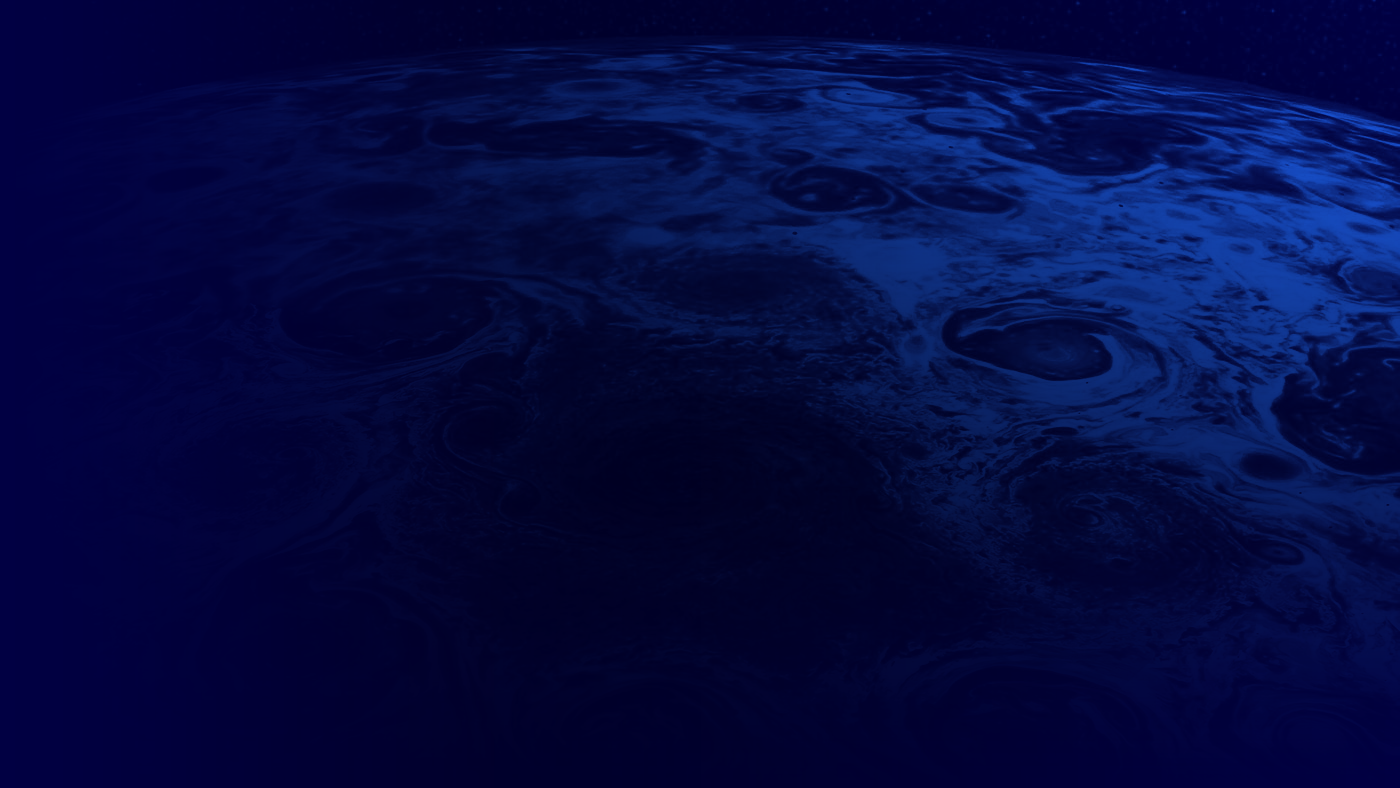
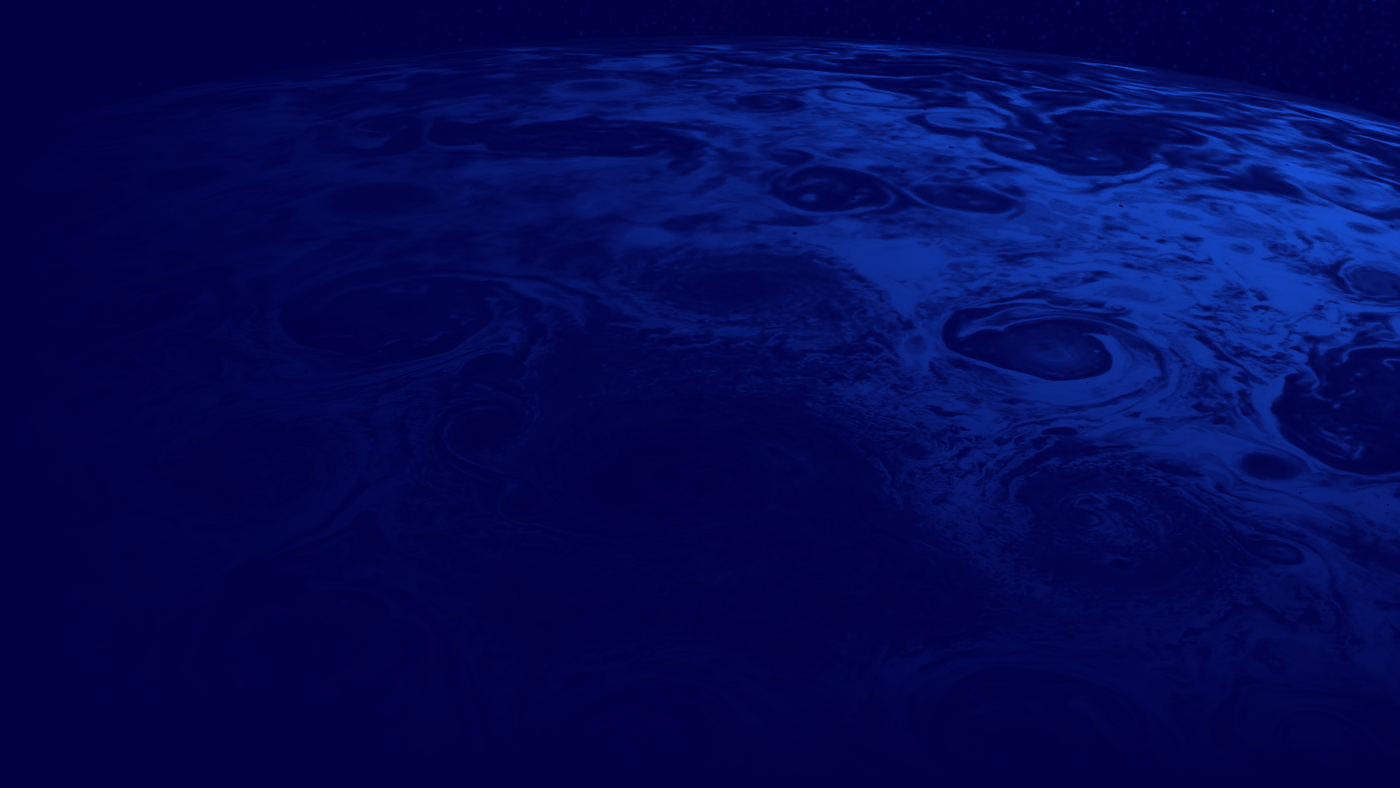
changing bg images

diff --git a/index.html b/index.html
@@ -85,10 +85,6 @@
 
 <body>
 
-  <figure class="cover">
-    <img class="background" width="2000" height="1328" src="img/17-04341_agu_meeting2017_binarykbo-4_5mb_duotone.png" alt="" />
-  </figure>
-
   <div class="wrapper">
 
     <header class="header">
@@ -264,13 +260,9 @@
                   “Juno’s measurement of Jupiter’s gravity field indicates a north-south asymmetry, similar to the asymmetry observed in its zones and belts,” said Luciano Iess, Juno co-investigator from Sapienza University of Rome, and lead author on a Nature paper on Jupiter’s gravity field.
                 </p>
               </div>
-
-
-
-
             </div> <!-- end article one -->
 
-            <div class="section">
+            <div class="section" data-bg-path="img/jovian-twilight-zone.png">
               <div id="navitem--sub--36" class="satellite"><p class="date">March 2, 2018</p></div>
 
               <h1 class="sun headline">Jovian ‘Twilight Zone’</h1>
@@ -300,7 +292,7 @@
               </div>
             </div> <!-- end article two -->
 
-            <div class="section">
+            <div class="section" data-bg-path="img/time-lapse-sequence.png">
               <div id="navitem--sub--41" class="satellite"><p class="date">Feb. 23, 2018</p></div>
 
               <h1 class="sun headline">Time-lapse Sequence of Jupiter’s South Pole</h1>
@@ -336,7 +328,7 @@
               </div>
             </div> <!-- end article three -->
 
-            <div class="section">
+            <div class="section" data-bg-path="img/swirling-cloud-formations.png">
               <div id="navitem--sub--47" class="satellite"><p class="date">Feb. 15, 2018</p></div>
 
               <h1 class="sun headline">Jupiter’s Swirling Cloud Formations</h1>
@@ -376,9 +368,11 @@
       </div>
     </div> <!-- end content -->
 
-
   </div> <!-- end wrapper -->
 
+  <figure class="cover">
+    <img class="background" width="2000" height="1328" src="img/17-04341_agu_meeting2017_binarykbo-4_5mb_duotone.png" alt="" />
+  </figure>
 
 </body>
 

diff --git a/css/style.css b/css/style.css
@@ -119,7 +119,7 @@ body {
 }
 
 .contentNav {
-  z-index: 500;
+  z-index: 700;
   bottom: 4vh;
 }
 
@@ -221,7 +221,7 @@ figure {
   left: 0;
   right: 0;
   bottom: 0;
-  z-index: -500;
+  z-index: -700;
 }
 
 .cover img {
@@ -302,9 +302,11 @@ div.sun {
   display: none;
 }
 
-.background {
+img .background {
   display: none;
 }
+
+
 
 
 
